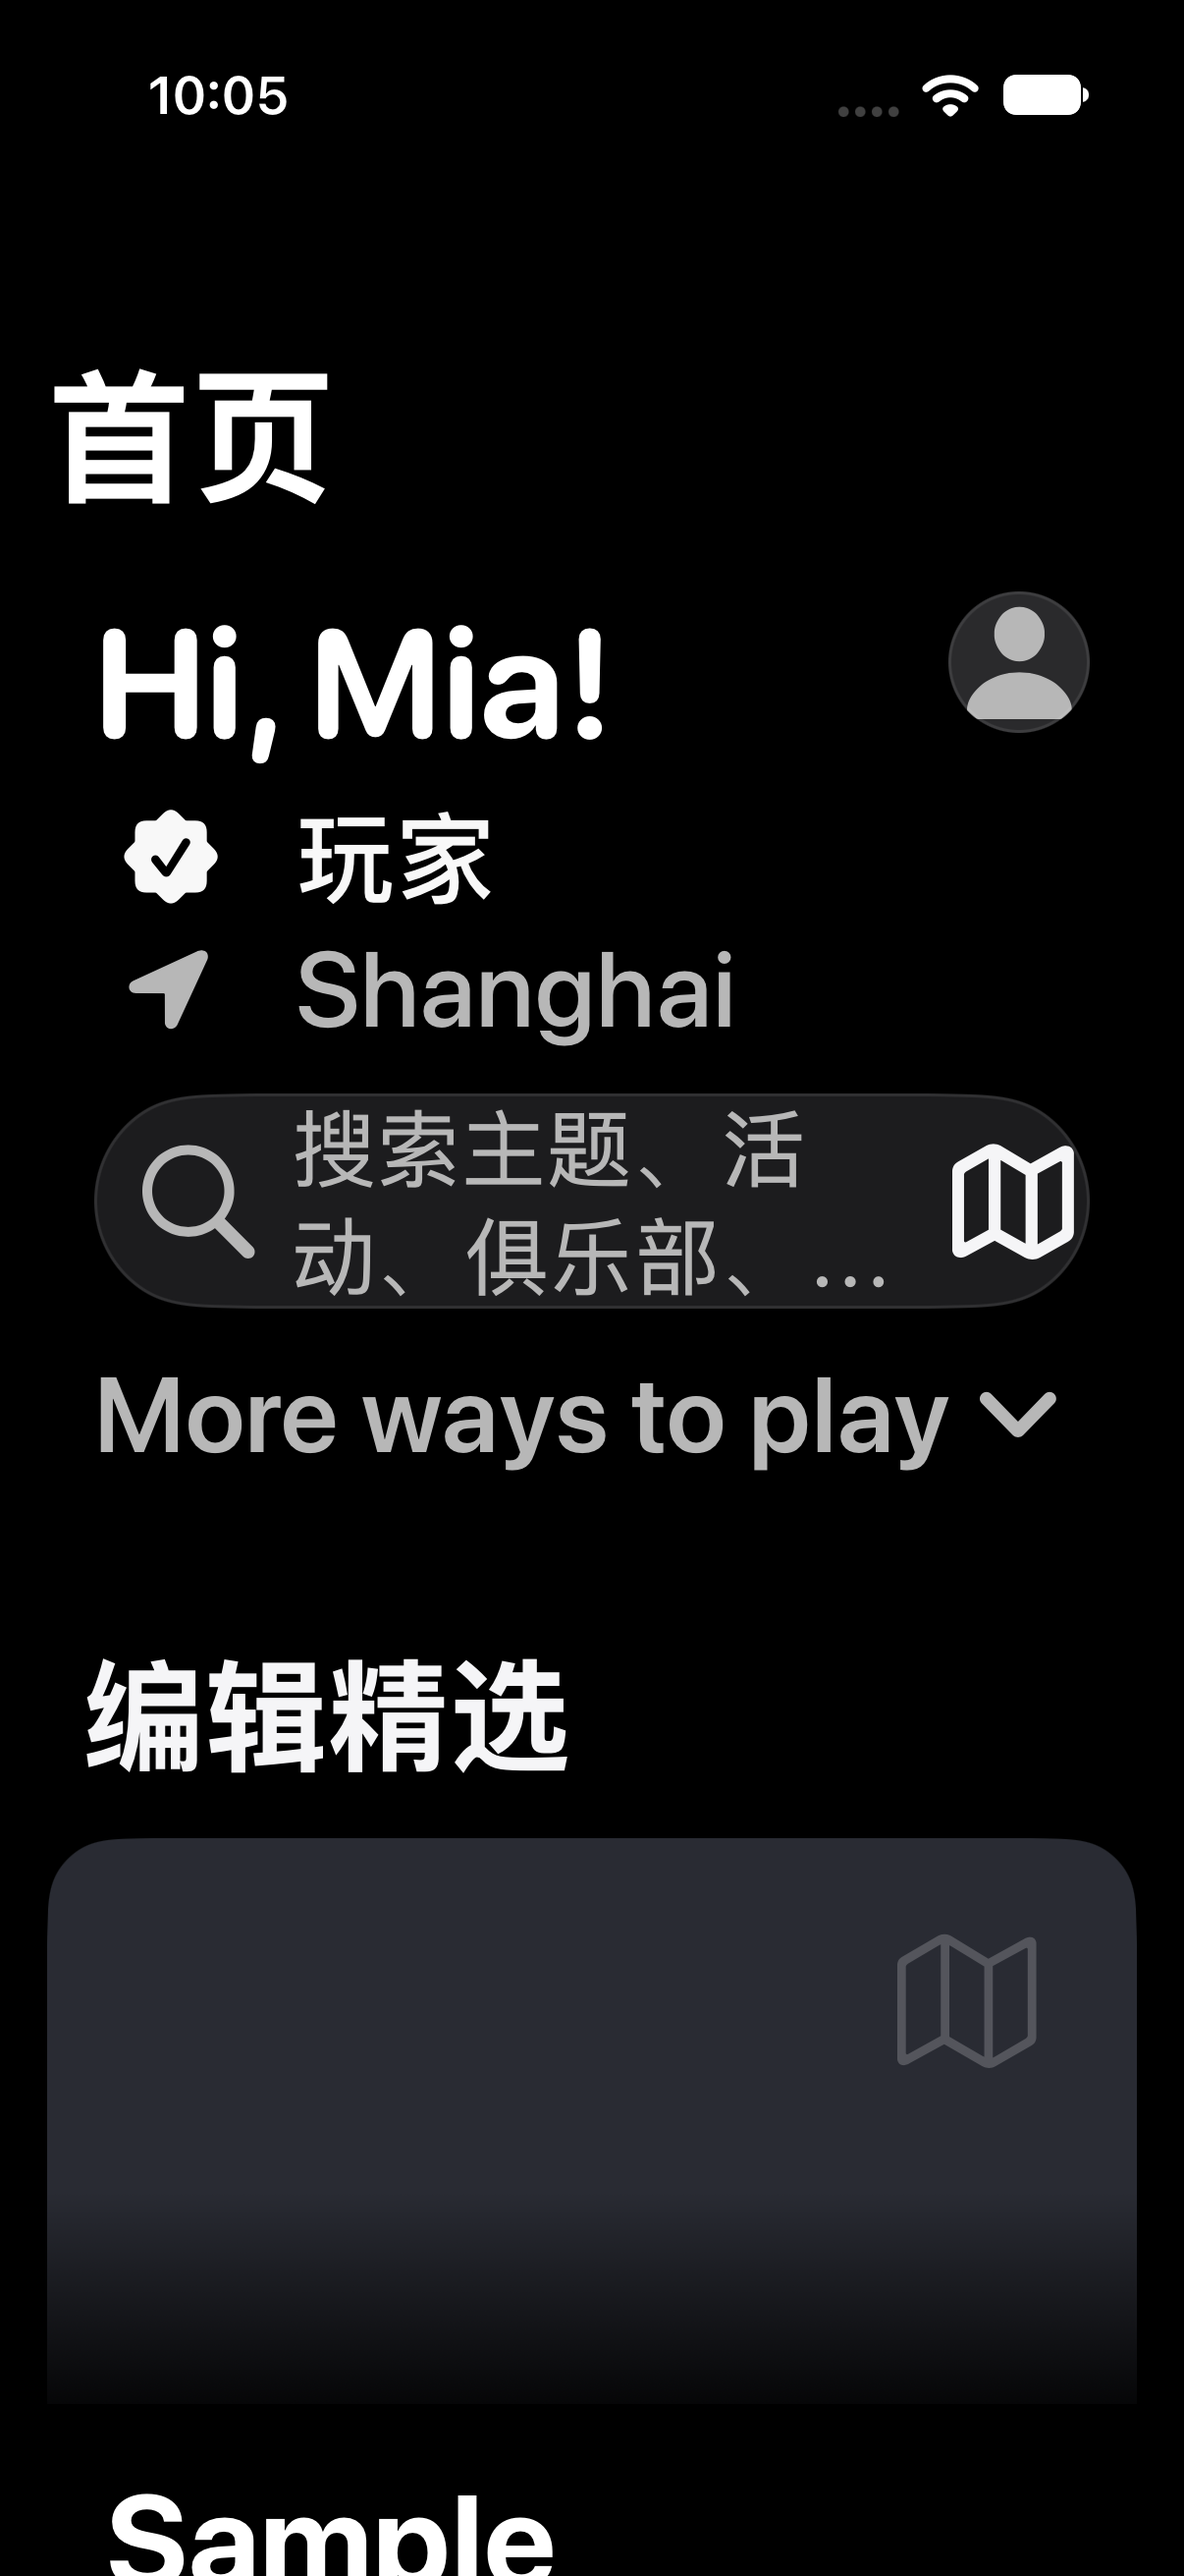
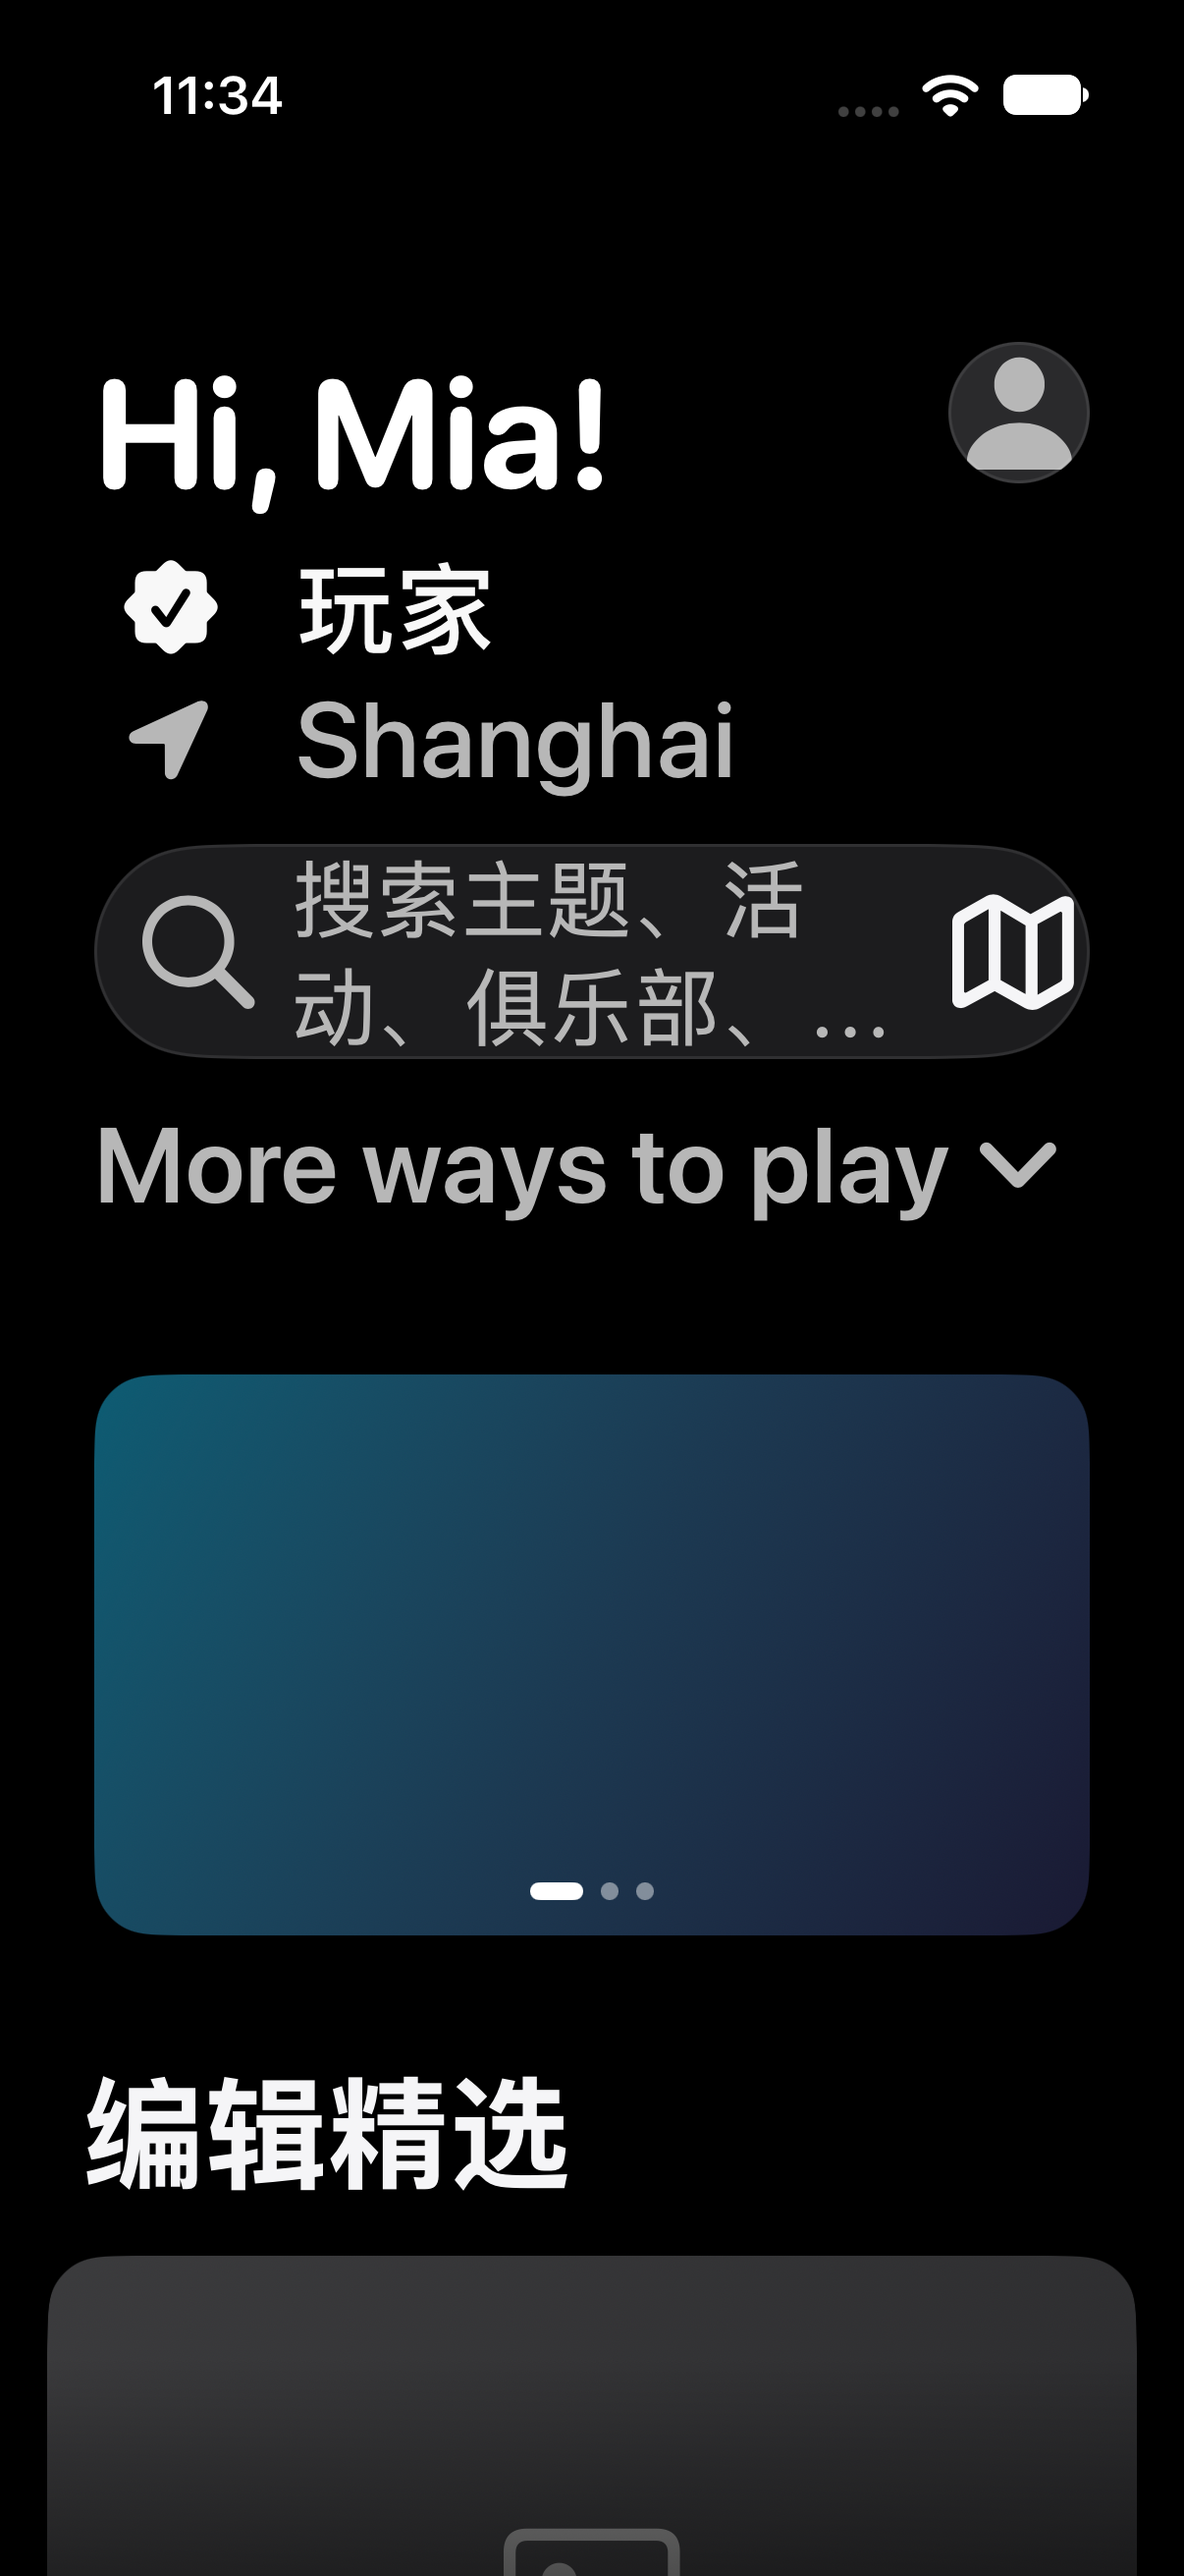
ui: D2 round 2 (single title, kit CYHeroBanner, price currency+起, XL/EN shots, compares)

diff --git a/App/HomeFeedView.swift b/App/HomeFeedView.swift
@@ -27,6 +27,7 @@ import SwiftUI
     @State private var submittedKeyword = ""
     @State private var localSelectedCity: String? = nil
     @State private var localIsNationwide: Bool = false
+    private var hasHeroHeader: Bool { showsHeroBanners || viewerNickname != nil || selectedCity != nil || onActionBanner != nil }
     private var query: HomeFeedQuery { HomeFeedQuery(kind: kind, keyword: submittedKeyword, categoryID: categoryID) }
     var body: some View {
         let binding = model.bind(reader, available: unavailableMessageKey == nil)
@@ -39,7 +40,7 @@ import SwiftUI
                 ProgressView("homeFeed.loading")
             } else {
                 List {
-                    if showsHeroBanners || viewerNickname != nil || selectedCity != nil || onActionBanner != nil {
+                    if hasHeroHeader {
                         HomeHeroHeaderSectionView(
                             nickname: viewerNickname,
                             selectedCity: localSelectedCity ?? selectedCity,
@@ -120,6 +121,8 @@ import SwiftUI
             }
         }
         .appNavigationTitle("homeFeed.title")
+        // The greeting block is the title (mini-program home): no second large nav title above it.
+        .toolbar(hasHeroHeader ? .hidden : .automatic, for: .navigationBar)
         .task(id: binding) { await model.resume(reader: reader, query: query, available: unavailableMessageKey == nil, expectedBinding: binding) }
         .onDisappear { model.suspend() }
     }
@@ -127,43 +130,19 @@ import SwiftUI
         let permit = model.permit(reader)
         if model.bannerFailed { retry("homeFeed.bannersError", id: "banners") { model.schedule(.banners, reader: reader, permit: permit) } }
         if !model.banners.isEmpty {
-            // Mirrors the mini-program hero swiper: full-width covers, paged, no captions.
+            // Mirrors the mini-program hero swiper: full-width rounded covers, paged, dots, no captions.
             Section {
-                TabView {
-                    ForEach(Array(model.banners.enumerated()), id: \.offset) { _, banner in
-                        if let destination = banner.destination {
-                            Button {
-                                guard model.canOpen(reader) else { return }
-                                switch destination { case .activity(let id): onDestination(.activity(id)); case .topic(let id): onDestination(.topic(id)) }
-                            } label: {
-                                bannerArtwork(banner)
-                            }
-                            .buttonStyle(QuestifyCardButtonStyle())
-                            .accessibilityLabel(Text("homeFeed.openFeatured"))
-                        } else {
-                            bannerArtwork(banner)
-                        }
-                    }
-                }
-                .tabViewStyle(.page(indexDisplayMode: model.banners.count > 1 ? .always : .never))
-                .frame(height: 196)
+                CYHeroBanner(items: model.banners.map { banner in
+                    CYHeroBannerItem(id: banner.id, imageURL: QuestifyCardArtwork.safeURL(banner.picUrl), accessibilityLabel: "homeFeed.openFeatured",
+                                     action: banner.destination.map { destination in {
+                        guard model.canOpen(reader) else { return }
+                        switch destination { case .activity(let id): onDestination(.activity(id)); case .topic(let id): onDestination(.topic(id)) }
+                    } })
+                })
+                .padding(.horizontal, CYSpacing.lg)
                 .questifyCardListRow()
             }
         }
-    }
-    private func bannerArtwork(_ banner: DiscoveryBanner) -> some View {
-        Group {
-            if let url = QuestifyCardArtwork.safeURL(banner.picUrl) {
-                QuestifyCardArtwork(url: url, height: 196)
-            } else {
-                // A clean placeholder with no text when the banner has no usable cover.
-                RoundedRectangle(cornerRadius: CYRadius.md, style: .continuous)
-                    .fill(CYColor.bgRaised)
-                    .frame(height: 196)
-                    .accessibilityHidden(true)
-            }
-        }
-        .padding(.bottom, model.banners.count > 1 ? 24 : 0)
     }
     /// Mini-program `sec-reco` / `sec-nearby` / `sec-upcoming`: a titled horizontal rail each, with its own
     /// loading, failure and empty state. 即将上线 disappears once it has loaded with nothing in it.
@@ -253,9 +232,10 @@ struct HomeFeedShelfCard: View {
     @Environment(\.timeZone) private var timeZone
     var body: some View {
         let date = QuestifyCardText.date(item.startDate, sourceTimeZone: sourceTimeZone, locale: locale, displayTimeZone: timeZone)
-        let line = [QuestifyCardText.metaLine(date: date, place: item.place), QuestifyCardText.amount(item.amount, locale: locale).map { String(localized: "playx.finishRoute.priceFrom \($0)") }]
-            .compactMap { $0 }.filter { !$0.isEmpty }.joined(separator: " · ")
-        CYImageCard(LocalizedStringKey(item.name), meta: LocalizedStringKey(line.isEmpty ? "—" : line),
+        // Currency + 起/From come from the shared price key; unknown price shows an em dash, never 0.
+        let price = QuestifyCardText.amount(item.amount, locale: locale).map { String(localized: "playx.finishRoute.priceFrom \($0)", locale: locale) } ?? "—"
+        let line = [QuestifyCardText.metaLine(date: date, place: item.place), price].compactMap { $0 }.joined(separator: " · ")
+        CYImageCard(LocalizedStringKey(item.name), metaText: line,
                     imageURL: QuestifyCardArtwork.safeURL(item.imageURL), style: style)
     }
 }

diff --git a/App/DesignSystem/CYHeroBanner.swift b/App/DesignSystem/CYHeroBanner.swift
@@ -1,0 +1,86 @@
+import SwiftUI
+
+/// One slide of a `CYHeroBanner`. A slide without a usable HTTPS cover shows a brand gradient (never an empty frame).
+struct CYHeroBannerItem: Identifiable {
+    let id: Int
+    var imageURL: URL?
+    var accessibilityLabel: LocalizedStringKey?
+    var action: (() -> Void)?
+}
+
+/// Full-width rounded banner pager (mini-program home hero swiper) with page dots.
+/// Renders nothing when `items` is empty, so there is no empty frame when the server has no banners.
+struct CYHeroBanner: View {
+    let items: [CYHeroBannerItem]
+    @State private var page = 0
+
+    private static let gradients: [[Color]] = [
+        [Color(red: 0.05, green: 0.36, blue: 0.45), Color(red: 0.10, green: 0.10, blue: 0.20)],
+        [Color(red: 0.62, green: 0.25, blue: 0.10), Color(red: 0.16, green: 0.07, blue: 0.10)],
+        [Color(red: 0.08, green: 0.36, blue: 0.24), Color(red: 0.04, green: 0.12, blue: 0.14)],
+    ]
+
+    var body: some View {
+        if !items.isEmpty {
+            Color.clear
+                .aspectRatio(16.0 / 9.0, contentMode: .fit)
+                .overlay {
+                    TabView(selection: $page) {
+                        ForEach(Array(items.enumerated()), id: \.element.id) { index, item in
+                            slide(item, index: index).tag(index)
+                        }
+                    }
+                    .tabViewStyle(.page(indexDisplayMode: .never))
+                }
+                .overlay(alignment: .bottom) {
+                    if items.count > 1 { dots.padding(.bottom, CYSpacing.md) }
+                }
+                .clipShape(RoundedRectangle(cornerRadius: CYRadius.lg, style: .continuous))
+        }
+    }
+
+    @ViewBuilder private func slide(_ item: CYHeroBannerItem, index: Int) -> some View {
+        let art = cover(item, index: index)
+        if let action = item.action {
+            Button(action: action) { art }
+                .buttonStyle(.plain)
+                .accessibilityLabel(item.accessibilityLabel ?? "")
+        } else {
+            art.accessibilityHidden(true)
+        }
+    }
+
+    @ViewBuilder private func cover(_ item: CYHeroBannerItem, index: Int) -> some View {
+        if let url = item.imageURL, url.scheme?.lowercased() == "https" {
+            AsyncImage(url: url) { phase in
+                if let image = phase.image { image.resizable().scaledToFill() } else { gradient(index) }
+            }
+        } else {
+            gradient(index)
+        }
+    }
+
+    private func gradient(_ index: Int) -> some View {
+        LinearGradient(colors: Self.gradients[index % Self.gradients.count], startPoint: .topLeading, endPoint: .bottomTrailing)
+    }
+
+    private var dots: some View {
+        HStack(spacing: 6) {
+            ForEach(items.indices, id: \.self) { index in
+                Capsule()
+                    .fill(.white.opacity(index == page ? 1 : 0.45))
+                    .frame(width: index == page ? 18 : 6, height: 6)
+            }
+        }
+        .animation(.easeOut(duration: 0.2), value: page)
+        .accessibilityHidden(true)
+    }
+}
+
+#Preview("HeroBanner · player dark") {
+    CYHeroBanner(items: (0..<3).map { CYHeroBannerItem(id: $0) })
+        .padding(CYSpacing.pageHorizontal)
+        .frame(maxHeight: .infinity, alignment: .top)
+        .cyDomainPageBackground()
+        .themeDomain(.player)
+}

diff --git a/App/HomeFeedFixtureSupport.swift b/App/HomeFeedFixtureSupport.swift
@@ -7,8 +7,13 @@ import SwiftUI
     let scope = UUID()
     let scenario: String
     private var failedOnce = false
-    init(scenario: String = "content") { self.scenario = scenario }
-    func banners() async throws -> [DiscoveryBanner] { [] }
+    let showsBanners: Bool
+    init(scenario: String = "content", showsBanners: Bool = false) { self.scenario = scenario; self.showsBanners = showsBanners }
+    /// Design fixture only: three synthetic banners without a cover (the kit pager draws brand gradients).
+    func banners() async throws -> [DiscoveryBanner] {
+        guard showsBanners else { return [] }
+        return try (1...3).map { try JSONDecoder().decode(DiscoveryBanner.self, from: Data(#"{"id":\#($0),"picUrl":null,"linkType":0,"dataId":null,"contents":null}"#.utf8)) }
+    }
     func categories() async throws -> [DiscoveryCategory] {
         try JSONDecoder().decode([DiscoveryCategory].self, from: Data(#"[{"id":2,"categoryName":"Sample category"}]"#.utf8))
     }
@@ -36,7 +41,7 @@ import SwiftUI
         hero = forceHero || ProcessInfo.processInfo.arguments.contains("--design-hero")
         let args = ProcessInfo.processInfo.arguments
         let index = args.firstIndex(of: "--uitesting-home-feed-scenario")
-        _reader = State(initialValue: HomeFeedFixtureReader(scenario: index.flatMap { args.indices.contains($0 + 1) ? args[$0 + 1] : nil } ?? "content"))
+        _reader = State(initialValue: HomeFeedFixtureReader(scenario: index.flatMap { args.indices.contains($0 + 1) ? args[$0 + 1] : nil } ?? "content", showsBanners: forceHero))
     }
     var body: some View {
         NavigationStack(path: $path) {

diff --git a/App/DesignSystem/CYImageCard.swift b/App/DesignSystem/CYImageCard.swift
@@ -7,7 +7,7 @@ struct CYImageCard: View {
     enum Style { case hero, shelf }
     private let style: Style
     private let title: LocalizedStringKey
-    private let meta: LocalizedStringKey?
+    private var meta: Text?
     private let imageURL: URL?
     private let aspectRatio: CGFloat
 
@@ -16,9 +16,15 @@ struct CYImageCard: View {
     init(_ title: LocalizedStringKey, meta: LocalizedStringKey? = nil, imageURL: URL? = nil, aspectRatio: CGFloat? = nil, style: Style = .hero) {
         self.style = style
         self.title = title
-        self.meta = meta
+        self.meta = meta.map { Text($0) }
         self.imageURL = (imageURL?.scheme?.lowercased() == "https") ? imageURL : nil
         self.aspectRatio = aspectRatio ?? (style == .shelf ? 3.0 / 2.0 : 16.0 / 10.0)
+    }
+
+    /// Pre-formatted (already localized) meta line, shown verbatim.
+    init(_ title: LocalizedStringKey, metaText: String, imageURL: URL? = nil, aspectRatio: CGFloat? = nil, style: Style = .hero) {
+        self.init(title, imageURL: imageURL, aspectRatio: aspectRatio, style: style)
+        self.meta = Text(verbatim: metaText)
     }
 
     var body: some View {
@@ -31,7 +37,7 @@ struct CYImageCard: View {
                         .font(CYTypography.sectionTitle)
                         .lineLimit(2)
                     if let meta {
-                        Text(meta).font(CYTypography.meta).opacity(0.85).lineLimit(1)
+                        meta.font(CYTypography.meta).monospacedDigit().opacity(0.85).lineLimit(2)
                     }
                 }
                 .foregroundStyle(.white)

diff --git a/docs/release/design-report-d2.md b/docs/release/design-report-d2.md
@@ -23,9 +23,17 @@ Changes: home greeting `display` type, one search pill with map as trailing icon
 ## Checklist (home / search / square / roam)
 1 order same as reference: yes (home: reference starts with hero banner pager; fixture has no banners, see open). 2 one primary: yes (search pill / search field / compose / start-roam card). 3 <=3 other controls: yes. 4 dark player theme: yes (verified through the fixture applying the same role theme as the tabs). 5 no violet: yes. 6 kit-consistent: home rails use kit; others use CY tokens (no kit equivalent for the search tiles / ticket cards). 7 states: kit skeleton/empty/retry kept. 8 XL no clipping: home verified; search/square/roam NOT re-shot at XL (time). 9 EN and zh: zh shot for all; EN not shot. 10 builds, 0 errors, no logic changes: yes.
 
+## Round 2 (coordinator review)
+1. One title: the greeting is the title block; the nav bar is hidden while the hero header exists (`HomeFeedView.hasHeroHeader`), the "首页" large title is gone.
+2. `homeFeed.moreWaysToPlay` already exists in `ui-strings-d2.json` with EN + zh-Hans ("更多玩法"); no new key. It still renders English in shots because Resources/*.xcstrings is off-limits for D2: the integrator must merge the json (an unrelated existing key `social.guideTemplates.browse` also has 更多玩法, not reused).
+3. New kit component `App/DesignSystem/CYHeroBanner.swift` (`CYHeroBanner` + `CYHeroBannerItem`): full-width 16:9 rounded pager with capsule page dots, brand gradient when a slide has no HTTPS cover, renders nothing when there are no items (no empty frame). `HomeFeedView.bannerSection` now uses it (taps keep the same destinations). The d2-home fixture returns 3 synthetic cover-less banners (other fixtures/tests still get none).
+4. Price regression fixed: rail meta is `date · place · ¥12.5 起` (EN "From ¥12.5"), tabular digits, em dash when the amount is unknown; meta wraps to 2 lines so 起 is never truncated (`CYImageCard(metaText:)` takes a pre-formatted string).
+5. Leftovers: XL, EN and zh shots for home, search, square and roam; fresh compare images for all four. "See all" stays hidden (no destination exists).
+
+Shots: `design-report-d2-shots/{home,search,square,roam}-{zh-dark,en-dark,zh-dark-XL}.png`, `compare-*.png` (reference left, ours right).
+
 ## Open issues
-- Hero banner pager not visible in the fixture (synthetic banner reader returns none), so the top of the home differs from the reference.
-- "See all" on section headers not added: no destination exists in the real feed.
-- Rail price line shows "12.5" without currency/起 in the kit card meta (localized key lookup falls back); needs a small follow-up.
-- Search / square / roam XL and English shots outstanding.
+- "More ways to play" / "More ways to find" show English until the integrator merges `ui-strings-d2.json` into the xcstrings.
+- Home XL: search placeholder truncates to "…" in the hero pill (pre-existing placeholder length, two lines max).
+- Gap between the "More ways" row and the banner is generous; the mini-program has the banner as a full-bleed backdrop behind the greeting (not replicated).
 - Roam intro cards are white ticket cards on dark by reference; square/roam fixtures show unrelated sections below the fold unchanged.
